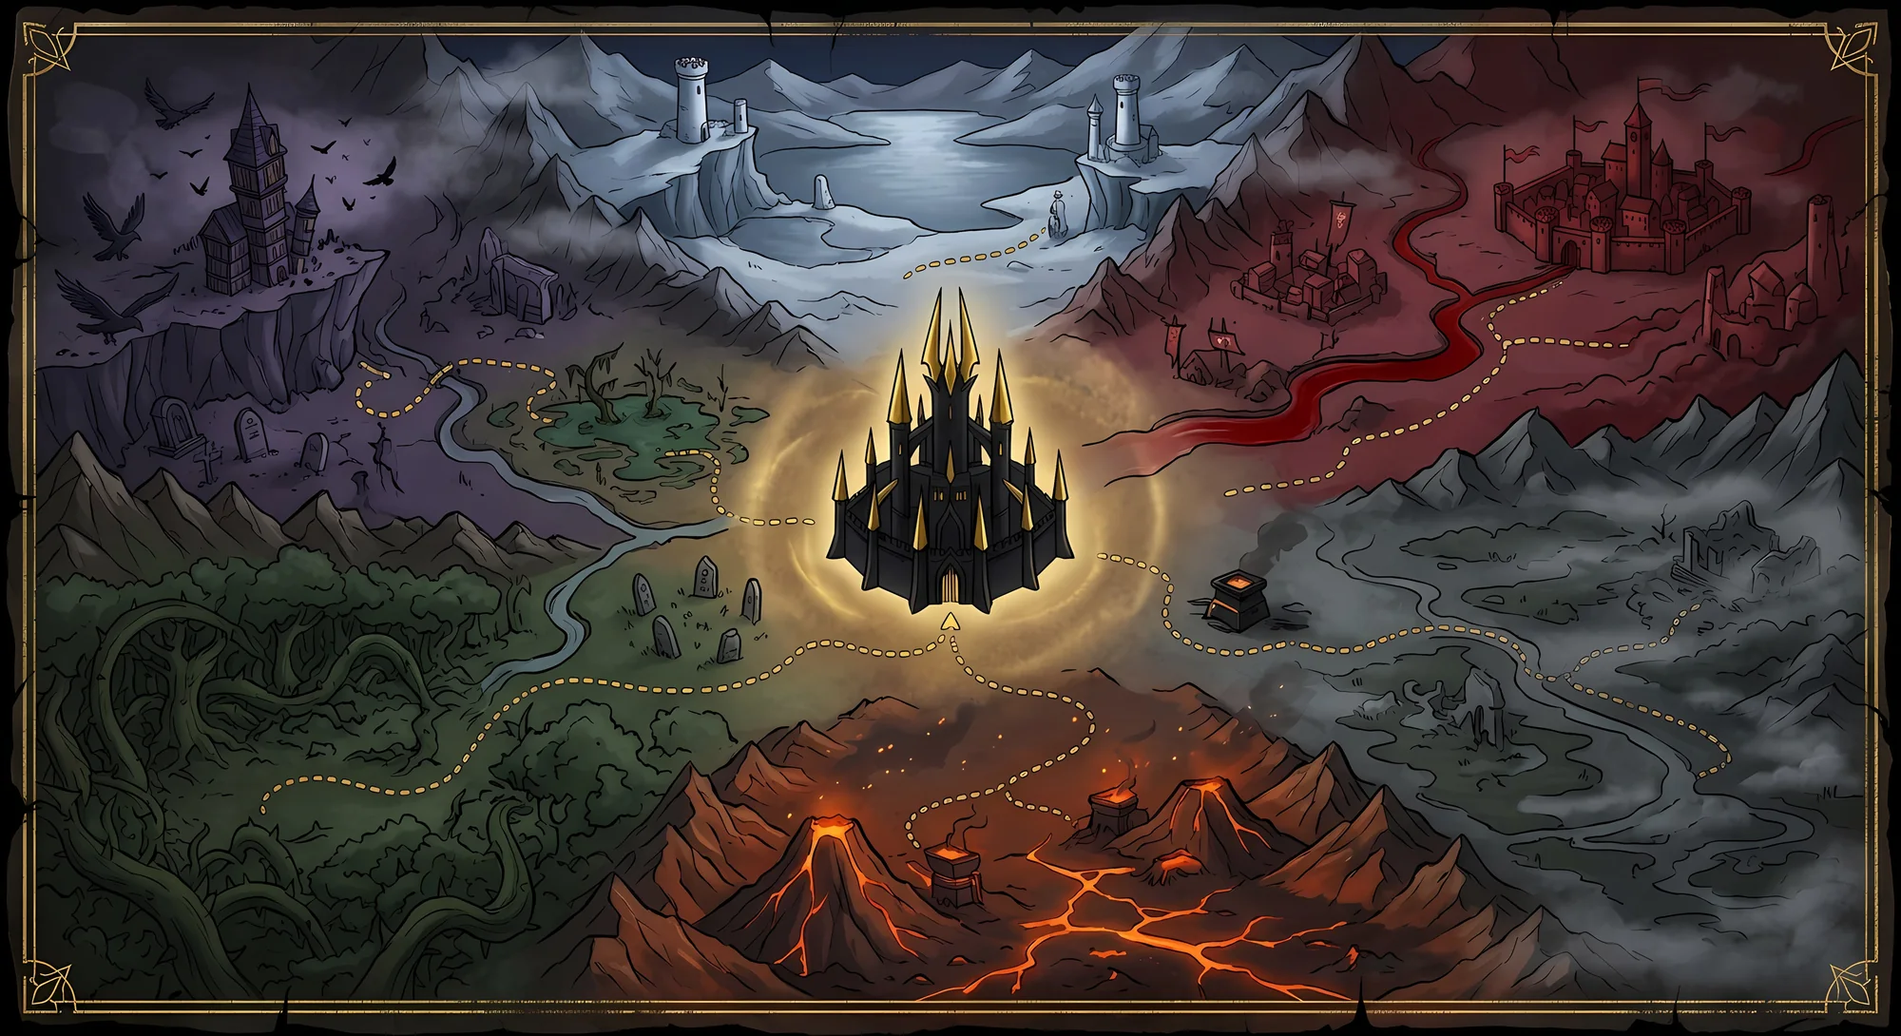
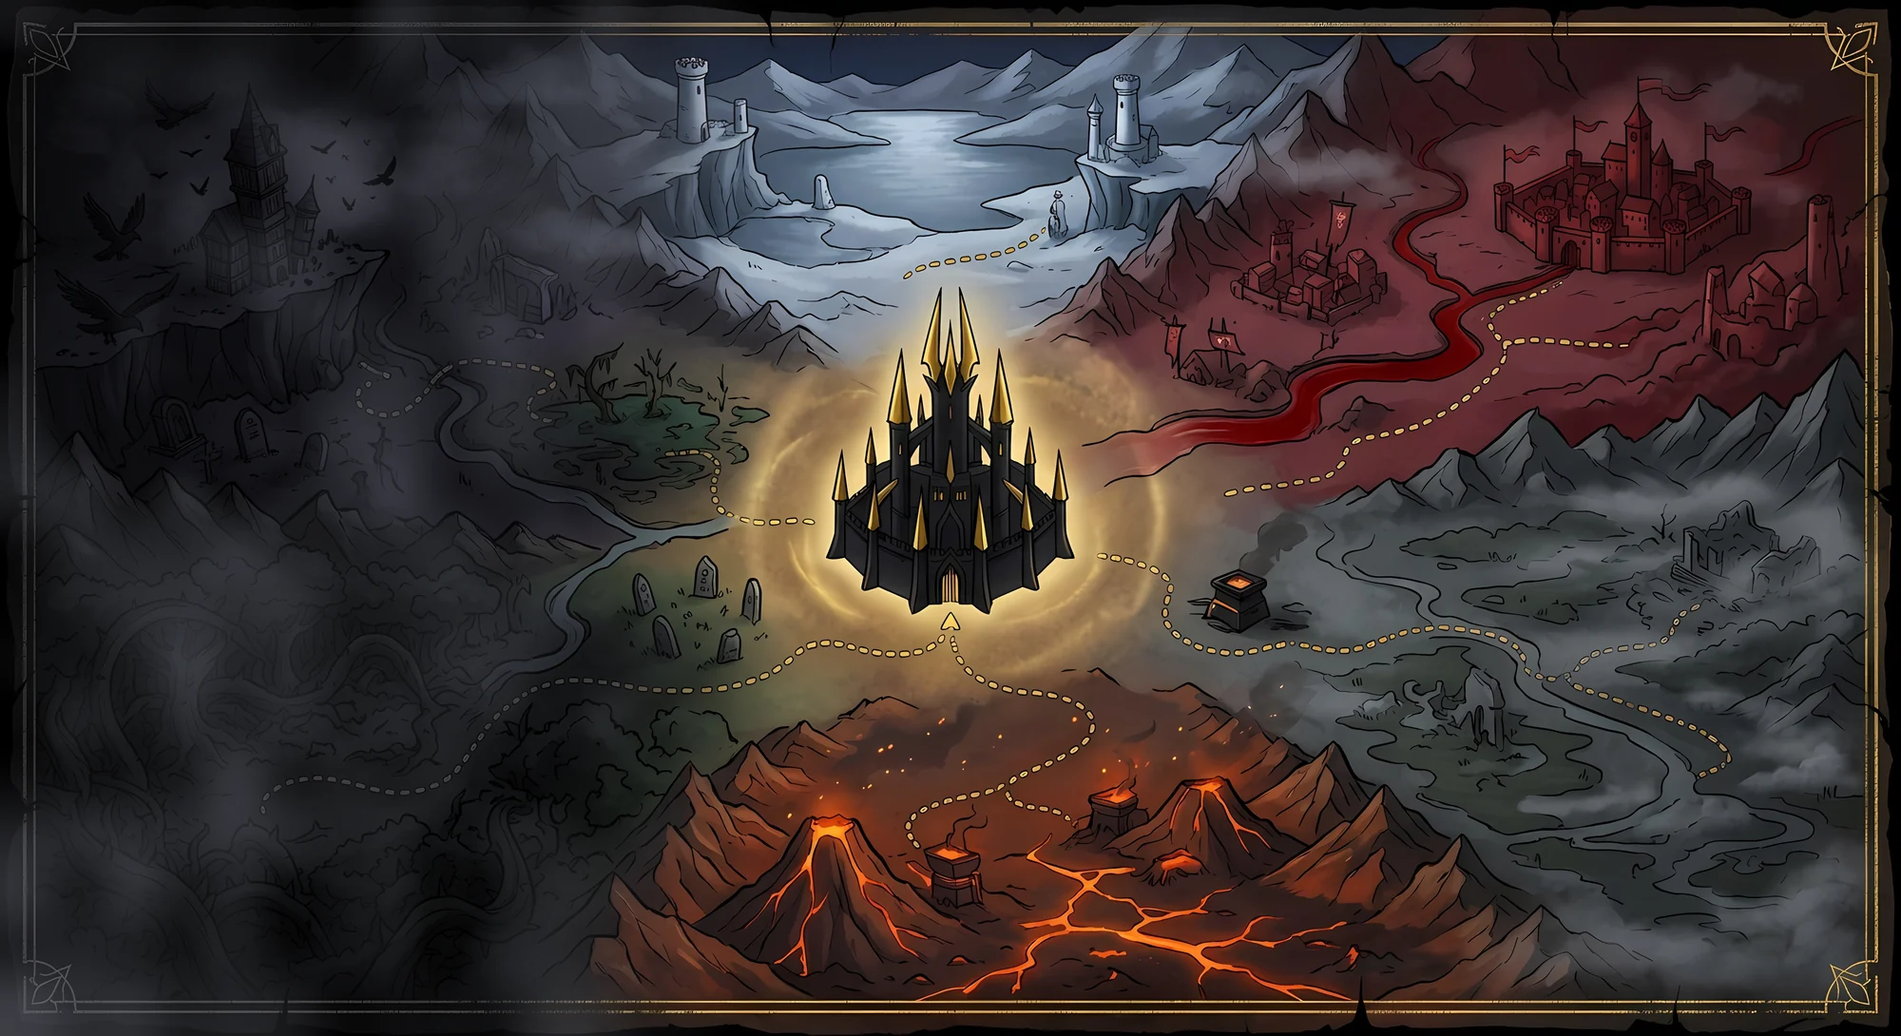
Start mit 4 Häusern: Mond, Blut, Nebel, Flamme
Dornen und Raben werden verlorene Häuser (verloren: true), der Westen der
Karte liegt in Dunkelheit und Nebel (tools/nebel.py). Quiz neu verteilt:
jede Frage hat genau eine starke Antwort pro Haus. Kamera-Rundgang nur noch
durch die 4 Gebiete, Worker-Belegung nur aktive Häuser.

Claude-Session: https://claude.ai/code/session_01RzZcqm1xubsUvXCx1dwLtS

Changed region(s): [[0.0, 0.0, 0.403, 1.0], [0.31, 0.8422, 0.341, 0.9358], [0.062, 0.7174, 0.093, 0.7486]]

diff --git a/data/quiz.js b/data/quiz.js
@@ -1,131 +1,132 @@
 // Fragenpool fürs Ritual (Plan 3). Pro Durchgang werden zufällig RUNDEN Fragen gezogen.
 // Jede Antwort gibt versteckte Punkte an 1 bis 2 Häuser: 2 = passt stark, 1 = passt etwas.
-// Kürzel: M = Mond (haus1), B = Blut (haus2), N = Nebel (haus3),
-//         F = Flamme (haus4), D = Dornen (haus5), R = Raben (haus6)
+// Kürzel: M = Mond (haus1), B = Blut (haus2), N = Nebel (haus3), F = Flamme (haus4)
+// Jede Frage hat genau eine starke Antwort (2) pro Haus, dazu je Haus 5 Nebenpunkte (1) insgesamt.
+// Dornen (haus5) und Raben (haus6) sind "verlorene Häuser" und kommen im Quiz erst später dazu.
 // Der Worker rechnet das Ergebnis später mit derselben Datei nach, damit niemand schummeln kann.
 (function () {
-  const H = { M: 'haus1', B: 'haus2', N: 'haus3', F: 'haus4', D: 'haus5', R: 'haus6' };
+  const H = { M: 'haus1', B: 'haus2', N: 'haus3', F: 'haus4' };
   const roh = [
     ['q01', 'Die Nacht bricht herein. Was tust du zuerst?', [
       ['Ich schaue zum Mond und lausche der Stille.', 'M2'],
       ['Ich zünde ein Feuer an und rufe die anderen.', 'F2 B1'],
       ['Ich verschwinde zwischen den Gassen.', 'N2'],
-      ['Ich lese die Zeichen am Himmel.', 'R2 M1']]],
+      ['Ich suche meine Leute und zähle, ob alle da sind.', 'B2']]],
     ['q02', 'Ein Fremder bittet am Tor um Einlass.', [
-      ['Er kommt erst rein, wenn er sich bewiesen hat.', 'D2'],
-      ['Ich frage ihn aus, bis ich alles über ihn weiß.', 'R2'],
+      ['Er kommt erst rein, wenn er sich bewiesen hat.', 'F2'],
+      ['Ich sehe ihm in die Augen. Lügen erkenne ich sofort.', 'M2'],
       ['Wer friert, bekommt einen Platz am Feuer.', 'B2 F1'],
-      ['Ich beobachte ihn heimlich aus dem Schatten.', 'N2 M1']]],
+      ['Ich beobachte ihn heimlich aus dem Schatten.', 'N2']]],
     ['q03', 'Welche Waffe liegt dir in der Hand?', [
       ['Eine Klinge, an der schon Blut klebt.', 'B2'],
       ['Ein Dolch, den niemand kommen sieht.', 'N2'],
-      ['Ein Stab aus altem Dornenholz.', 'D2'],
-      ['Ein Buch voller verbotener Worte.', 'R2']]],
+      ['Eine Axt, geboren im Schmiedefeuer.', 'F2'],
+      ['Ein Stab mit einem Stein aus Mondlicht.', 'M2 N1']]],
     ['q04', 'Was fürchtest du am meisten?', [
-      ['Vergessen zu werden.', 'R2'],
-      ['Verraten zu werden.', 'B2 D1'],
+      ['Vergessen zu werden.', 'M2'],
+      ['Verraten zu werden.', 'B2'],
       ['Dass das Feuer in mir erlischt.', 'F2'],
-      ['Dass jemand sieht, wer ich wirklich bin.', 'N2']]],
+      ['Dass jemand sieht, wer ich wirklich bin.', 'N2 M1']]],
     ['q05', 'Ein Sturm zieht auf. Du …', [
       ['… tanzt im Regen und lachst den Blitzen entgegen.', 'F2'],
-      ['… suchst Schutz und hältst die Stellung.', 'D2'],
-      ['… zählst die Sekunden zwischen Blitz und Donner.', 'M2 R1'],
-      ['… nutzt das Chaos, um zu verschwinden.', 'N2']]],
+      ['… bringst deine Leute in Sicherheit.', 'B2'],
+      ['… zählst die Sekunden zwischen Blitz und Donner.', 'M2'],
+      ['… nutzt das Chaos, um zu verschwinden.', 'N2 F1']]],
     ['q06', 'Welcher Ort ruft nach dir?', [
       ['Ein stiller See unter dem Vollmond.', 'M2'],
-      ['Eine Bibliothek, die seit Jahrhunderten niemand betreten hat.', 'R2'],
-      ['Ein Wald voller Dornen und alter Wurzeln.', 'D2'],
+      ['Ein Moor, über dem der Nebel nie verschwindet.', 'N2'],
+      ['Eine Burg, in der meine ganze Familie wohnt.', 'B2'],
       ['Eine Schmiede, in der das Eisen glüht.', 'F2']]],
     ['q07', 'Deine Gefährten geraten in eine Falle.', [
       ['Ich werfe mich dazwischen, egal was es kostet.', 'B2'],
-      ['Ich kannte die Falle längst. Und den Ausweg.', 'N2 R1'],
-      ['Ich brenne alles nieder, was uns festhält.', 'F2'],
-      ['Ich halte den Feind auf, bis alle draußen sind.', 'D2 B1']]],
+      ['Ich kannte die Falle längst. Und den Ausweg.', 'N2'],
+      ['Ich brenne alles nieder, was uns festhält.', 'F2 B1'],
+      ['Ich bleibe ruhig und finde die Schwachstelle.', 'M2']]],
     ['q08', 'Welches Tier begleitet dich?', [
-      ['Ein Rabe.', 'R2'],
       ['Eine weiße Eule.', 'M2'],
       ['Ein Wolf.', 'B2'],
-      ['Eine Schlange.', 'N2 D1']]],
+      ['Eine Schlange.', 'N2'],
+      ['Ein Feuersalamander.', 'F2']]],
     ['q09', 'Was zählt am Ende?', [
       ['Die Wahrheit, auch wenn sie wehtut.', 'M2'],
       ['Treue.', 'B2'],
       ['Freiheit.', 'F2 N1'],
-      ['Dass etwas bleibt.', 'D2']]],
+      ['Geheimnisse, die nur ich kenne.', 'N2']]],
     ['q10', 'Man bietet dir verbotenes Wissen an. Gegen einen Preis.', [
-      ['Ich zahle. Wissen ist jeden Preis wert.', 'R2'],
+      ['Ich zahle. Wissen ist jeden Preis wert.', 'M2'],
       ['Ich nehme es mir, ohne zu zahlen.', 'N2'],
-      ['Ich lehne ab. Manche Türen bleiben besser zu.', 'D2 M1'],
-      ['Ich frage erst, wer dafür bluten muss.', 'B2']]],
+      ['Ich brauche keine Bücher. Ich brauche Mut.', 'F2'],
+      ['Ich frage erst, wer dafür bluten muss.', 'B2 M1']]],
     ['q11', 'Wie betrittst du einen Raum?', [
       ['Laut. Jeder soll wissen, dass ich da bin.', 'F2'],
       ['Leise. Keiner merkt, dass ich da bin.', 'N2'],
-      ['Ruhig. Ich sehe mir erst alles an.', 'M2'],
+      ['Ruhig. Ich sehe mir erst alles an.', 'M2 N1'],
       ['An der Seite meiner Leute.', 'B2']]],
     ['q12', 'Was trägst du immer bei dir?', [
-      ['Ein Notizbuch voller Beobachtungen.', 'R2 N1'],
+      ['Ein Notizbuch voller Geheimnisse.', 'N2'],
       ['Einen Talisman aus Mondstein.', 'M2'],
       ['Streichhölzer. Man weiß nie.', 'F2'],
-      ['Ein Samenkorn aus meiner Heimat.', 'D2']]],
+      ['Ein Medaillon mit dem Bild meiner Liebsten.', 'B2']]],
     ['q13', 'Jemand beleidigt deinen Freund.', [
       ['Er wird es bereuen. Sofort.', 'F2 B1'],
       ['Ich merke mir sein Gesicht. Rache schmeckt kalt am besten.', 'N2'],
-      ['Ich stelle mich schützend vor meinen Freund.', 'D2'],
+      ['Ich stelle mich schützend vor meinen Freund.', 'B2'],
       ['Ich lasse ihn reden. Worte verwehen.', 'M2']]],
     ['q14', 'Welche Stunde gehört dir?', [
       ['Mitternacht.', 'M2'],
       ['Die Dämmerung.', 'N2'],
       ['Der Sonnenuntergang, wenn der Himmel brennt.', 'F2'],
-      ['Die Stunde vor Sonnenaufgang, wenn die Raben erwachen.', 'R2']]],
+      ['Der Morgen, wenn alle wieder beisammen sind.', 'B2']]],
     ['q15', 'Du findest eine verschlossene Truhe.', [
       ['Ich breche sie auf.', 'F2'],
       ['Ich öffne das Schloss, ohne Spuren zu hinterlassen.', 'N2'],
-      ['Ich lese erst die Runen auf dem Deckel.', 'R2'],
-      ['Ich bringe sie zu meinen Leuten. Wir öffnen sie gemeinsam.', 'B2']]],
+      ['Ich lese erst die Runen auf dem Deckel.', 'M2'],
+      ['Ich bringe sie zu meinen Leuten. Wir öffnen sie gemeinsam.', 'B2 F1']]],
     ['q16', 'Welche Gabe hättest du gerne?', [
-      ['In die Träume anderer zu blicken.', 'M2'],
+      ['In die Träume anderer zu blicken.', 'M2 N1'],
       ['Wunden mit meinem Blut zu heilen.', 'B2'],
-      ['Pflanzen nach meinem Willen wachsen zu lassen.', 'D2'],
-      ['Mit den Toten zu sprechen.', 'R2']]],
+      ['Unsichtbar zu werden.', 'N2'],
+      ['Feuer aus meinen Händen zu rufen.', 'F2']]],
     ['q17', 'Wie gehst du mit einer Niederlage um?', [
-      ['Ich stehe wieder auf. Wurzeln brechen nicht.', 'D2'],
+      ['Ich stehe wieder auf. Meine Leute fangen mich auf.', 'B2'],
       ['Ich ziehe mich zurück und denke nach.', 'M2'],
       ['Wut. Und dann ein zweiter Versuch.', 'F2'],
-      ['Niemand wird je erfahren, dass ich verloren habe.', 'N2']]],
+      ['Niemand wird je erfahren, dass ich verloren habe.', 'N2 M1']]],
     ['q18', 'Welche Farbe hat deine Seele?', [
       ['Silber.', 'M2'],
       ['Tiefrot.', 'B2 F1'],
       ['Grau wie Rauch.', 'N2'],
-      ['Schwarz wie Federn.', 'R2']]],
+      ['Glühendes Orange.', 'F2']]],
     ['q19', 'Dein Haus ruft zum Kampf.', [
       ['Ich führe den Angriff an.', 'F2'],
-      ['Ich verteidige unsere Mauern.', 'D2'],
+      ['Ich überblicke das Feld und lenke die anderen.', 'M2'],
       ['Ich kämpfe Seite an Seite mit meinen Leuten.', 'B2'],
-      ['Ich kenne die Pläne des Feindes, bevor es beginnt.', 'R2 N1']]],
+      ['Ich kenne die Pläne des Feindes, bevor es beginnt.', 'N2 M1']]],
     ['q20', 'Ein Versprechen ist für dich …', [
       ['… heilig. Mit Blut besiegelt.', 'B2'],
-      ['… wie ein Same. Es wächst mit der Zeit.', 'D2'],
+      ['… wie der Mond. Es kehrt immer wieder.', 'M2 B1'],
       ['… ein Funke. Hell, aber schnell vorbei.', 'F2'],
       ['… so flüchtig wie Nebel.', 'N2']]],
     ['q21', 'Was hörst du am liebsten?', [
       ['Das Knistern eines Feuers.', 'F2'],
-      ['Den Wind in den Bäumen.', 'D2'],
-      ['Das Krächzen der Raben.', 'R2'],
+      ['Flüstern hinter verschlossenen Türen.', 'N2'],
+      ['Das Lachen meiner Leute.', 'B2 F1'],
       ['Absolute Stille.', 'M2']]],
     ['q22', 'Was würdest du opfern, um zu gewinnen?', [
       ['Mein eigenes Blut.', 'B2'],
       ['Meinen Schlaf. Die Nächte sind lang.', 'M2'],
-      ['Meine Erinnerungen. Ich schreibe neue.', 'R2'],
-      ['Alles. Was verbrennt, wächst neu.', 'F2 D1']]],
+      ['Meinen Namen. Niemand muss wissen, wer gewonnen hat.', 'N2 B1'],
+      ['Alles. Was verbrennt, wächst neu.', 'F2']]],
     ['q23', 'Wie sieht dein Zuhause aus?', [
-      ['Ein Turm mit Blick auf die Sterne.', 'M2 R1'],
-      ['Eine Halle voller Menschen, die ich liebe.', 'B2 F1'],
-      ['Eine Hütte hinter dichten Dornenhecken.', 'D2'],
+      ['Ein Turm mit Blick auf die Sterne.', 'M2'],
+      ['Eine Halle voller Menschen, die ich liebe.', 'B2'],
+      ['Ein Haus am Fuß eines Vulkans.', 'F2 M1'],
       ['Niemand weiß, wo ich wohne.', 'N2']]],
     ['q24', 'Was rettest du aus einem brennenden Haus?', [
-      ['Die Bücher.', 'R2'],
+      ['Den Spiegel, in dem man den Mond sieht.', 'M2'],
       ['Die Menschen.', 'B2'],
-      ['Den alten Baum im Hof.', 'D2'],
-      ['Den Spiegel, in dem man den Mond sieht.', 'M2']]],
+      ['Den Brief mit meinem größten Geheimnis.', 'N2'],
+      ['Die Glut. Aus ihr baue ich alles neu.', 'F2 N1']]],
   ];
 
   const ziel = typeof window !== 'undefined' ? window : globalThis;   // Browser und Worker

diff --git a/data/haeuser.js b/data/haeuser.js
@@ -1,4 +1,6 @@
-// Die 6 Häuser – eine Quelle für Website und Overlay.
+// Die Häuser – eine Quelle für Website und Overlay.
+// Zum Start gibt es 4 Häuser. Dornen und Raben sind "verlorene Häuser" (verloren: true):
+// Ihre Gebiete liegen im Nebel, sie erwachen später (z. B. bei einem großen Meilenstein).
 // Namen, Farben, Wappen und Sprüche sind ARBEITSTITEL (Plan 15.1) und werden später ersetzt.
 // Die ids (haus1 … haus6) bleiben fest, darauf verweist die Datenbank.
 // wappenBild: fertiges Wappen aus assets/ – fehlt es, wird ein Platzhalter gezeichnet.
@@ -45,7 +47,7 @@
     ],
   },
   {
-    id: 'haus5', name: 'Haus der Dornen', kurz: 'Dornen', symbol: 'dornen', wappenBild: 'assets/wappen-haus5.webp',
+    id: 'haus5', name: 'Haus der Dornen', kurz: 'Dornen', symbol: 'dornen', wappenBild: 'assets/wappen-haus5.webp', verloren: true,
     farbe: 0x5f9e48, css: '#6fae55',
     wesen: 'Geduldig, standhaft und wehrhaft. Ihr schützt, was euch gehört.',
     sprueche: [
@@ -55,7 +57,7 @@
     ],
   },
   {
-    id: 'haus6', name: 'Haus der Raben', kurz: 'Raben', symbol: 'raben', wappenBild: 'assets/wappen-haus6.webp',
+    id: 'haus6', name: 'Haus der Raben', kurz: 'Raben', symbol: 'raben', wappenBild: 'assets/wappen-haus6.webp', verloren: true,
     farbe: 0x7a68b5, css: '#8b79c6',
     wesen: 'Neugierig, klug und unvergessen. Ihr tragt das Wissen und die Botschaften.',
     sprueche: [
@@ -65,6 +67,10 @@
     ],
   },
 ];
+// Nur die Häuser, in die man aktuell kommen kann
+(typeof window !== 'undefined' ? window : globalThis).NWU_AKTIVE_HAEUSER =
+  (typeof window !== 'undefined' ? window : globalThis).NWU_HAEUSER.filter((h) => !h.verloren);
+
 
 // 4 Startcharaktere pro Haus (Plan 3). Gleiche Grundtypen, Aussehen später pro Haus.
 // Namen und Beschreibungen sind Platzhalter.

diff --git a/js/film.js b/js/film.js
@@ -18,7 +18,7 @@
     verkuendungFlug: 4600,     // Kamerafahrt zum Haus
     hausBlende: 2600,          // Überblendung ins Hausgebiet
   };
-  const FRAGEN_PRO_GEBIET = 2;
+  const FRAGEN_PRO_GEBIET = 3;
 
   // Orte auf der Karte (Anteil der Bildbreite/-höhe) und Zoomstufe
   const ORTE = {
@@ -29,11 +29,10 @@
     haus2: { x: 0.79, y: 0.20, z: 2.3 },   // Blut, oben rechts
     haus3: { x: 0.83, y: 0.58, z: 2.3 },   // Nebel, rechts
     haus4: { x: 0.50, y: 0.82, z: 2.3 },   // Flamme, unten Mitte
-    haus5: { x: 0.15, y: 0.76, z: 2.3 },   // Dornen, unten links
-    haus6: { x: 0.16, y: 0.22, z: 2.3 },   // Raben, oben links
+    // haus5 (Dornen) und haus6 (Raben) liegen im Westen im Nebel – verlorene Häuser
   };
   // Reihenfolge der Gebiete während der Fragen (verrät nichts über das Ergebnis)
-  const RUNDGANG = ['haus3', 'haus1', 'haus4', 'haus6', 'haus2', 'haus5'];
+  const RUNDGANG = ['haus3', 'haus1', 'haus4', 'haus2'];
   const gebietFuerFrage = (nr) => RUNDGANG[Math.floor(nr / FRAGEN_PRO_GEBIET) % RUNDGANG.length];
 
   const karte = $('karte');

diff --git a/index.html b/index.html
@@ -22,8 +22,6 @@
   <img class="szene" data-haus="haus2" data-src="assets/gebiet-haus2.webp" alt="">
   <img class="szene" data-haus="haus3" data-src="assets/gebiet-haus3.webp" alt="">
   <img class="szene" data-haus="haus4" data-src="assets/gebiet-haus4.webp" alt="">
-  <img class="szene" data-haus="haus5" data-src="assets/gebiet-haus5.webp" alt="">
-  <img class="szene" data-haus="haus6" data-src="assets/gebiet-haus6.webp" alt="">
 </div>
 <div class="schleier" aria-hidden="true"></div>
 <div class="nebel" aria-hidden="true"><span></span><span></span></div>
@@ -44,7 +42,7 @@
     <p class="unter">NightWither Unity</p>
     <div class="karte">
       <p>Morrígan wird dir Fragen stellen. Antworte ehrlich, nicht klug.
-        Am Ende weist sie dich einem der sechs Häuser zu.</p>
+        Am Ende weist sie dich einem der vier Häuser zu.</p>
       <p class="warnung">Die Wahl des Hauses ist <strong>endgültig</strong>.</p>
     </div>
     <button class="knopf" id="b-start" type="button">Ritual beginnen</button>

diff --git a/js/ritual.js b/js/ritual.js
@@ -10,7 +10,7 @@
   const SPEICHER = 'nwu-ritual-v1';
   // Nur zum Testen im Demo-Modus: index.html?haus=1 landet immer in Haus 1
   const TEST_NR = new URLSearchParams(location.search).get('haus');
-  const TEST_HAUS = !SEITE.api && TEST_NR && HAEUSER.some((h) => h.id === 'haus' + TEST_NR) ? 'haus' + TEST_NR : null;
+  const TEST_HAUS = !SEITE.api && TEST_NR && window.NWU_AKTIVE_HAEUSER.some((h) => h.id === 'haus' + TEST_NR) ? 'haus' + TEST_NR : null;
 
   // ---------- Fortschritt merken (überlebt Neuladen, z. B. beim Wechsel in den Chat) ----------
   let st = laden() || {};

diff --git a/worker/src/index.js b/worker/src/index.js
@@ -91,7 +91,7 @@ function quizPruefen(fragen, antworten) {
 
 async function belegung(env) {
   const { results } = await env.DB.prepare('SELECT haus, COUNT(*) AS n FROM profil WHERE haus IS NOT NULL GROUP BY haus').all();
-  const b = Object.fromEntries(HAEUSER.map((h) => [h.id, 0]));
+  const b = Object.fromEntries(globalThis.NWU_AKTIVE_HAEUSER.map((h) => [h.id, 0]));
   for (const r of results) b[r.haus] = r.n;
   return b;
 }

diff --git a/tools/nebel.py b/tools/nebel.py
@@ -1,0 +1,45 @@
+"""Legt die verlorenen Häuser (Westen der Karte: Raben, Dornen) in Dunkelheit und Nebel.
+Nutzung: python tools/nebel.py   (liest assets/roh/karte.jpg, schreibt assets/karte.webp und karte-klein.webp)
+"""
+import numpy as np
+from PIL import Image, ImageFilter
+
+Image.MAX_IMAGE_PIXELS = None
+VOLL, FREI = 0.27, 0.41        # bis hier ganz im Nebel, ab hier ganz frei (Anteil der Breite)
+
+def nebel(ein='assets/roh/karte.jpg'):
+    bild = Image.open(ein).convert('RGB')
+    w, h = bild.size
+    rgb = np.asarray(bild).astype(np.float32) / 255
+
+    # Maske: links voll, weicher Übergang, Rand leicht wellig damit es nicht wie ein Lineal aussieht
+    rng = np.random.default_rng(7)
+    welle = np.asarray(Image.fromarray((rng.random((12, 1)) * 255).astype(np.uint8)).resize((1, h), Image.BICUBIC)).astype(np.float32)[:, 0] / 255
+    grenze_voll = VOLL + (welle - 0.5) * 0.05
+    x = np.linspace(0, 1, w)[None, :]
+    maske = np.clip((FREI + (welle[:, None] - 0.5) * 0.05 - x) / (FREI - grenze_voll[:, None]), 0, 1)
+    maske = maske * maske * (3 - 2 * maske)          # weiche Kurve
+
+    # Dunkler, entsättigt, leicht kalt
+    grau = rgb.mean(axis=2, keepdims=True)
+    dunkel = (grau * 0.75 + rgb * 0.25) * 0.38
+    dunkel = dunkel * np.array([0.92, 0.95, 1.08])
+
+    # Nebelschwaden: grobes Rauschen, stark weichgezeichnet
+    schwaden = np.zeros((h, w), np.float32)
+    for groesse, gewicht in ((6, 0.6), (18, 0.4)):
+        r = Image.fromarray((rng.random((groesse, groesse * 2)) * 255).astype(np.uint8)).resize((w, h), Image.BICUBIC)
+        r = r.filter(ImageFilter.GaussianBlur(w / (groesse * 10)))
+        schwaden += np.asarray(r).astype(np.float32) / 255 * gewicht
+    schwaden = np.clip((schwaden - 0.35) * 1.6, 0, 1)[..., None]
+    nebelfarbe = np.array([0.55, 0.57, 0.63])
+    dunkel = dunkel * (1 - schwaden * 0.45) + nebelfarbe * schwaden * 0.45
+
+    m = maske[..., None]
+    aus = rgb * (1 - m) + dunkel * m
+    ergebnis = Image.fromarray((np.clip(aus, 0, 1) * 255).astype(np.uint8))
+    ergebnis.save('assets/karte.webp', 'WEBP', quality=86, method=6)
+    ergebnis.resize((2000, round(h * 2000 / w)), Image.LANCZOS).save('assets/karte-klein.webp', 'WEBP', quality=86, method=6)
+
+if __name__ == '__main__':
+    nebel()

diff --git a/README.md b/README.md
@@ -1,7 +1,7 @@
 # NWU Avatare
 
 Stream-Avatare für das NWU-Universum: Zuschauer machen ein Quiz, landen in einem von
-6 Häusern, wählen eine Figur, und die läuft im Stream um den Kamera-Rahmen. Mit Level,
+4 Häusern, wählen eine Figur, und die läuft im Stream um den Kamera-Rahmen. Mit Level,
 Items, Portal-Events und Haus-Duellen.
 
 Die Seite bekommt eine eigene Subdomain und wird nur über Twitch verlinkt
@@ -38,7 +38,7 @@ js/grafik.js          Platzhalter-Wappen und -Figuren (SVG)
 js/film.js            Kamera über die Karte, Szenen der Gebiete
 js/ton.js             Klang (im Browser erzeugt), Stumm-Knopf
 assets/               Karte und Gebiete (WebP), Originale in assets/roh/
-data/haeuser.js       Die 6 Häuser – EINE Quelle für Seite und Overlay
+data/haeuser.js       Die Häuser (4 aktiv, Dornen/Raben verloren) – EINE Quelle für Seite und Overlay
 data/quiz.js          24 Fragen, pro Durchgang 12 zufällig
 data/auswertung.js    Quiz-Auswertung (gleich für Seite und Worker)
 data/erfolge.js       Erfolgskarte: Stufen der beiden Wege, Plattformen
@@ -53,7 +53,11 @@ docs/                 Plan, Engine-Prüfung, Datenmodell, Gemini-Prompts, Anleit
   Die ids `haus1` … `haus6` bitte nicht ändern, darauf verweist die Datenbank.
 - **Fragen:** `data/quiz.js`. Jede Antwort gibt Punkte an 1 bis 2 Häuser
   (`'M2'` = Mond 2 Punkte, `'F2 B1'` = Flamme 2, Blut 1). Aktuell bekommt jedes Haus
-  gleich viele Punkte über alle Fragen. Wenn du etwas änderst, das Gleichgewicht halten.
+  gleich viele Punkte über alle Fragen (jede Frage hat genau eine starke Antwort pro Haus).
+  Wenn du etwas änderst, das Gleichgewicht halten.
+- **Verlorene Häuser wecken:** in `data/haeuser.js` bei Dornen/Raben `verloren: true` entfernen,
+  im Quiz Antworten mit `D`/`R` ergänzen und in `js/film.js` die Orte wieder eintragen.
+  Den Nebel auf der Karte macht `tools/nebel.py` (Original liegt in `assets/roh/karte.jpg`).
 - Das Quiz zieht pro Durchgang 12 von 24 Fragen. Bei knappem Ergebnis gewinnt das Haus
   mit weniger Mitgliedern (sobald der Worker die Belegung liefert).
 

diff --git a/docs/PLAN.md b/docs/PLAN.md
@@ -367,3 +367,4 @@ Ein Slot freischalten heißt: er wird nutzbar. Die Auswahl an Items pro Slot wä
 - **Overlay-Figuren:** werden aus Gemini-Teile-Bögen **zerlegt** (getrennte Ebenen fürs Puppet-System). Nachbesserung einplanen.
 - **Proportionen (Vorschlag):** leicht kindlich, etwa 3 Köpfe groß, damit die Figuren im Stream bei ca. 50 Pixeln erkennbar bleiben. Noch zu bestätigen.
 - **Figuren-Stil (Entscheidung):** Alle Figuren im **Stil des Schattenkönig-Avatars**: Cartoon-Sticker/Emote-Look, dicker schwarzer Umriss, große klare Farbflächen, wenig Kleinkram, Chibi etwa 2,5 Köpfe hoch. Grund: im Stream bei ca. 56 px gut erkennbar und passend zur bestehenden NWU-Marke. Die Anime-Figuren von Haus 1 sind damit überholt (bleiben als Platzhalter, bis die neuen da sind). Karte, Gebiete und Wappen bleiben.
+- **4 statt 6 Häuser (Entscheidung):** Zum Start gibt es nur **Mond, Blut, Nebel und Flamme**. Grund: Bei der aktuellen Community-Größe hätte jedes von 6 Häusern zu wenige Mitglieder für Duelle und Gemeinschaftsgefühl, außerdem 16 statt 24 Figuren. **Dornen und Raben** werden „verlorene Häuser“: Der Westen der Karte liegt in Dunkelheit und Nebel, die beiden erwachen später als Story-Event (z. B. bei einem großen Meilenstein). Wappen und Gebietsbilder bleiben dafür erhalten. Technisch: `verloren: true` in `data/haeuser.js`, das Quiz kennt nur die 4 aktiven Häuser.

diff --git a/docs/GEMINI-PROMPTS.md b/docs/GEMINI-PROMPTS.md
@@ -1,6 +1,8 @@
 # Bilder mit Gemini: Prompts
 
-Stand: 18.10.2026. Für: Karte, 6 Wappen, 24 Charaktere und Teile-Bögen zum Zerlegen.
+Stand: 18.10.2026. Für: Karte, Wappen, Charaktere und Teile-Bögen zum Zerlegen.
+**Es gibt zum Start nur 4 Häuser: Mond, Blut, Nebel, Flamme** (= 16 Charaktere). Dornen und Raben
+sind „verlorene Häuser“ und brauchen erst später Figuren.
 
 ## So gehst du vor
 
